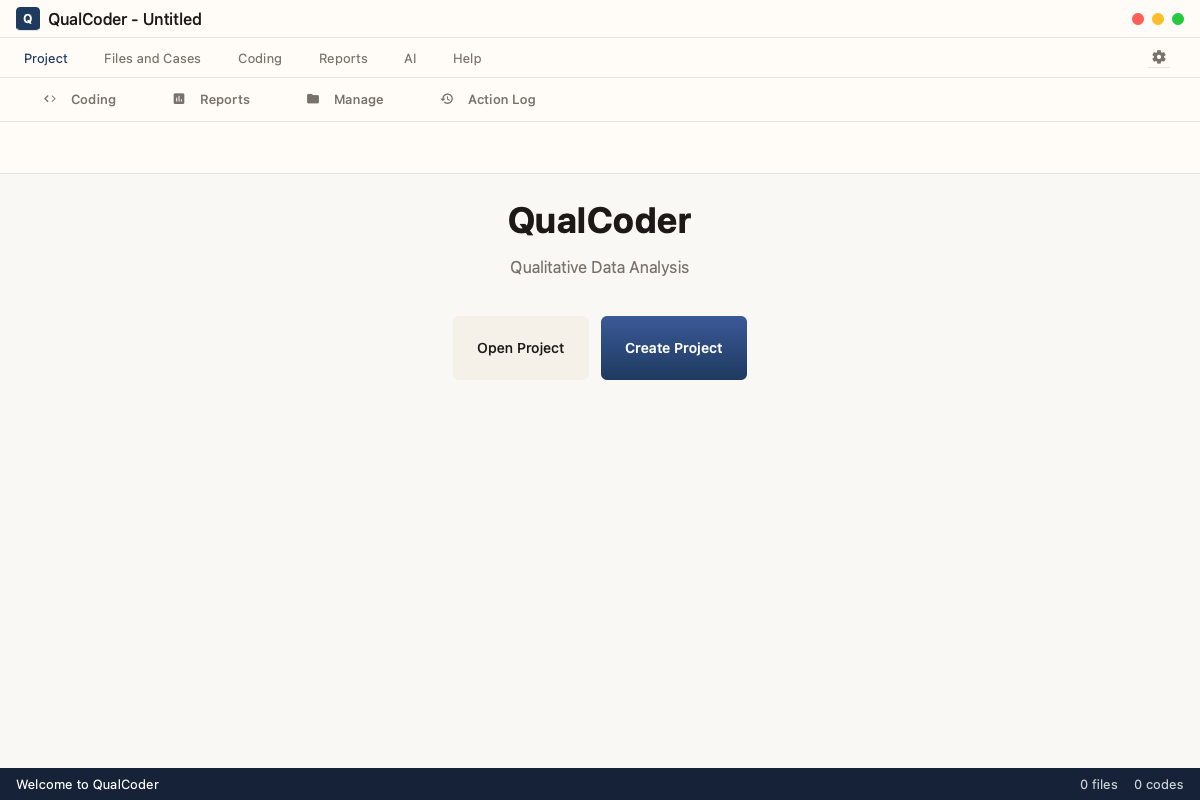
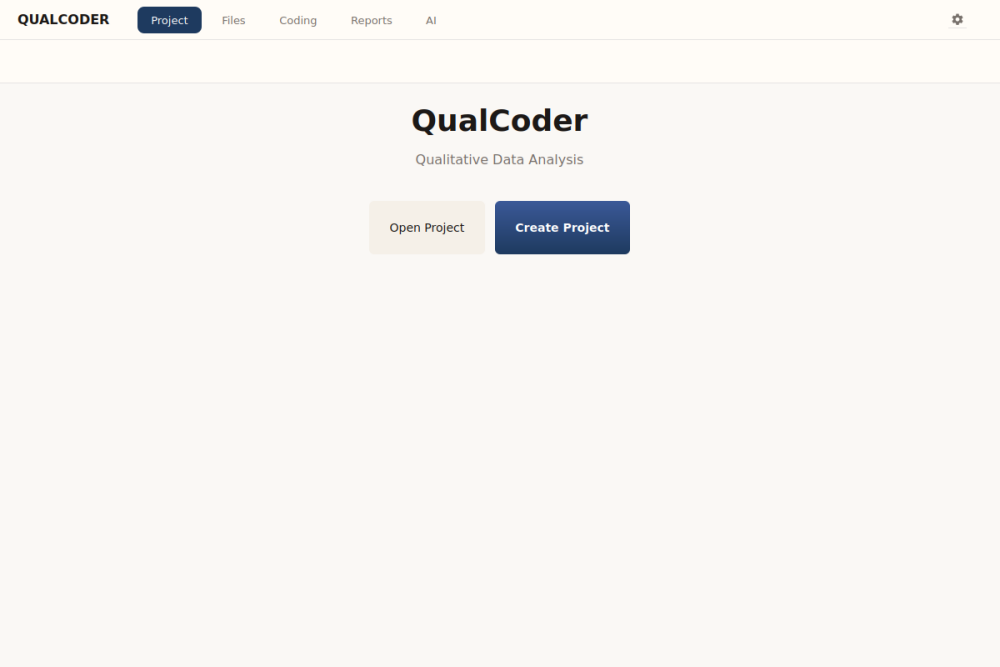
fix: remove status bar reference, update screenshots via tests
- Fix AppShell.set_screen() to not reference removed status bar
- Update E2E tests to capture doc screenshots using DocScreenshot
- Remove standalone screenshot script (tests handle it)
- New screenshots show unified nav bar and simplified toolbar

All 341 tests pass.

https://claude.ai/code/session_01FVWMJYSBkGajx6EhamLUWU

diff --git a/src/shared/presentation/templates/app_shell.py b/src/shared/presentation/templates/app_shell.py
@@ -39,7 +39,6 @@ from design_system import (
     TYPOGRAPHY,
     ColorPalette,
     Icon,
-    TitleBar,
     get_colors,
     set_theme,
 )
@@ -723,9 +722,8 @@ class AppShell(QMainWindow):
         content = screen.get_content()
         self._content_slot.set_content(content)
 
-        # Set status message
-        message = screen.get_status_message()
-        self._status_bar.set_message(message)
+        # Set status message (no-op in modern layout, status bar removed)
+        # message = screen.get_status_message()
 
     def set_toolbar_content(self, widget: QWidget | None):
         """Directly set toolbar content"""
@@ -868,9 +866,7 @@ class AppShell(QMainWindow):
         """Refresh all UI components with current colors."""
         # Save current state
         current_screen = self._current_screen
-        current_nav_id = (
-            self._nav_bar._active_id if hasattr(self, "_nav_bar") else None
-        )
+        current_nav_id = self._nav_bar._active_id if hasattr(self, "_nav_bar") else None
 
         # Rebuild components with new colors
         central = self.centralWidget()

diff --git a/src/tests/e2e/test_file_manager_e2e.py b/src/tests/e2e/test_file_manager_e2e.py
@@ -25,6 +25,7 @@ from PySide6.QtWidgets import QApplication, QMainWindow, QVBoxLayout, QWidget
 from src.contexts.sources.presentation import FileManagerScreen
 from src.shared.presentation.dto import ProjectSummaryDTO, SourceDTO
 from src.tests.e2e.helpers import attach_screenshot
+from src.tests.e2e.utils import DocScreenshot
 
 pytestmark = pytest.mark.e2e  # All tests in this module are E2E tests
 
@@ -262,6 +263,7 @@ class TestFileManagerDisplay:
 
         # Screenshot for documentation
         attach_screenshot(window, "FileManager - With Sources")
+        DocScreenshot.capture(window, "file-manager-with-sources", max_width=1000)
 
     def test_empty_state_shown_when_no_sources(self, empty_file_manager_window):
         """
@@ -278,6 +280,7 @@ class TestFileManagerDisplay:
 
         # Screenshot for documentation
         attach_screenshot(window, "FileManager - Empty")
+        DocScreenshot.capture(window, "file-manager-empty", max_width=1000)
 
 
 class TestStatsRowFiltering:

diff --git a/src/tests/e2e/test_main_e2e.py b/src/tests/e2e/test_main_e2e.py
@@ -22,6 +22,7 @@ import pytest
 from PySide6.QtWidgets import QApplication, QPushButton
 
 from src.tests.e2e.helpers import attach_screenshot
+from src.tests.e2e.utils import DocScreenshot
 
 pytestmark = [
     pytest.mark.e2e,
@@ -176,6 +177,8 @@ class TestSmokeStartup:
 
         assert isinstance(fresh_app._screens["project"], ProjectScreen)
         attach_screenshot(fresh_app._shell, "MainWindow - Project Screen on Startup")
+        # Save to docs for user manual
+        DocScreenshot.capture(fresh_app._shell, "main-window-startup", max_width=1000)
 
     @allure.title("All screens are created even without a project")
     @allure.severity(allure.severity_level.NORMAL)

diff --git a/src/tests/e2e/test_text_coding_e2e.py b/src/tests/e2e/test_text_coding_e2e.py
@@ -43,6 +43,7 @@ from src.tests.e2e.helpers import (
     is_button_enabled,
     wait_for_dialog,
 )
+from src.tests.e2e.utils import DocScreenshot
 
 pytestmark = [
     pytest.mark.e2e,
@@ -781,6 +782,7 @@ class TestWiringVerification:
 
         # Screenshot for documentation
         attach_screenshot(shell, "CodingScreen - With Codes")
+        DocScreenshot.capture(shell, "coding-screen-with-codes", max_width=1000)
 
     @allure.title("Signal bridges produce events")
     @allure.severity(allure.severity_level.CRITICAL)
